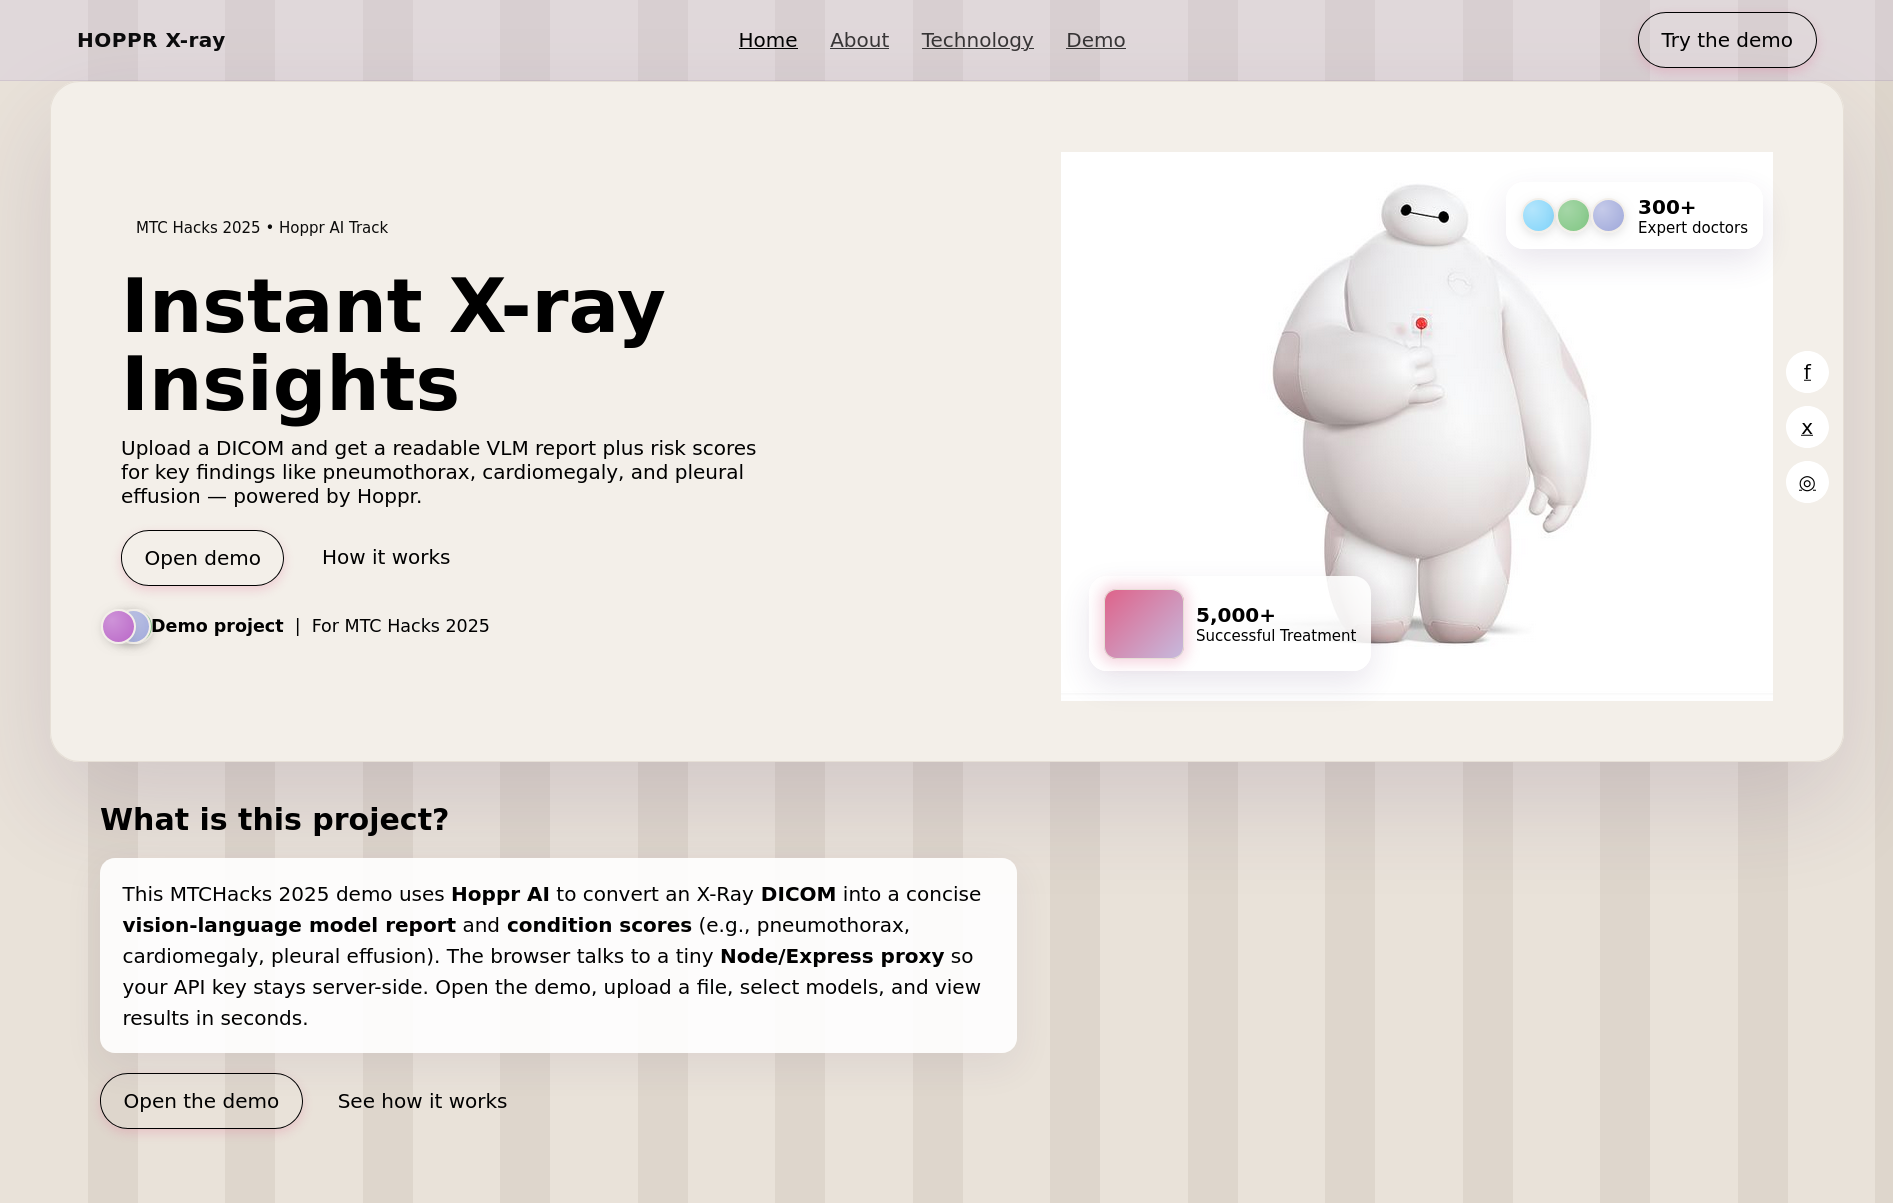
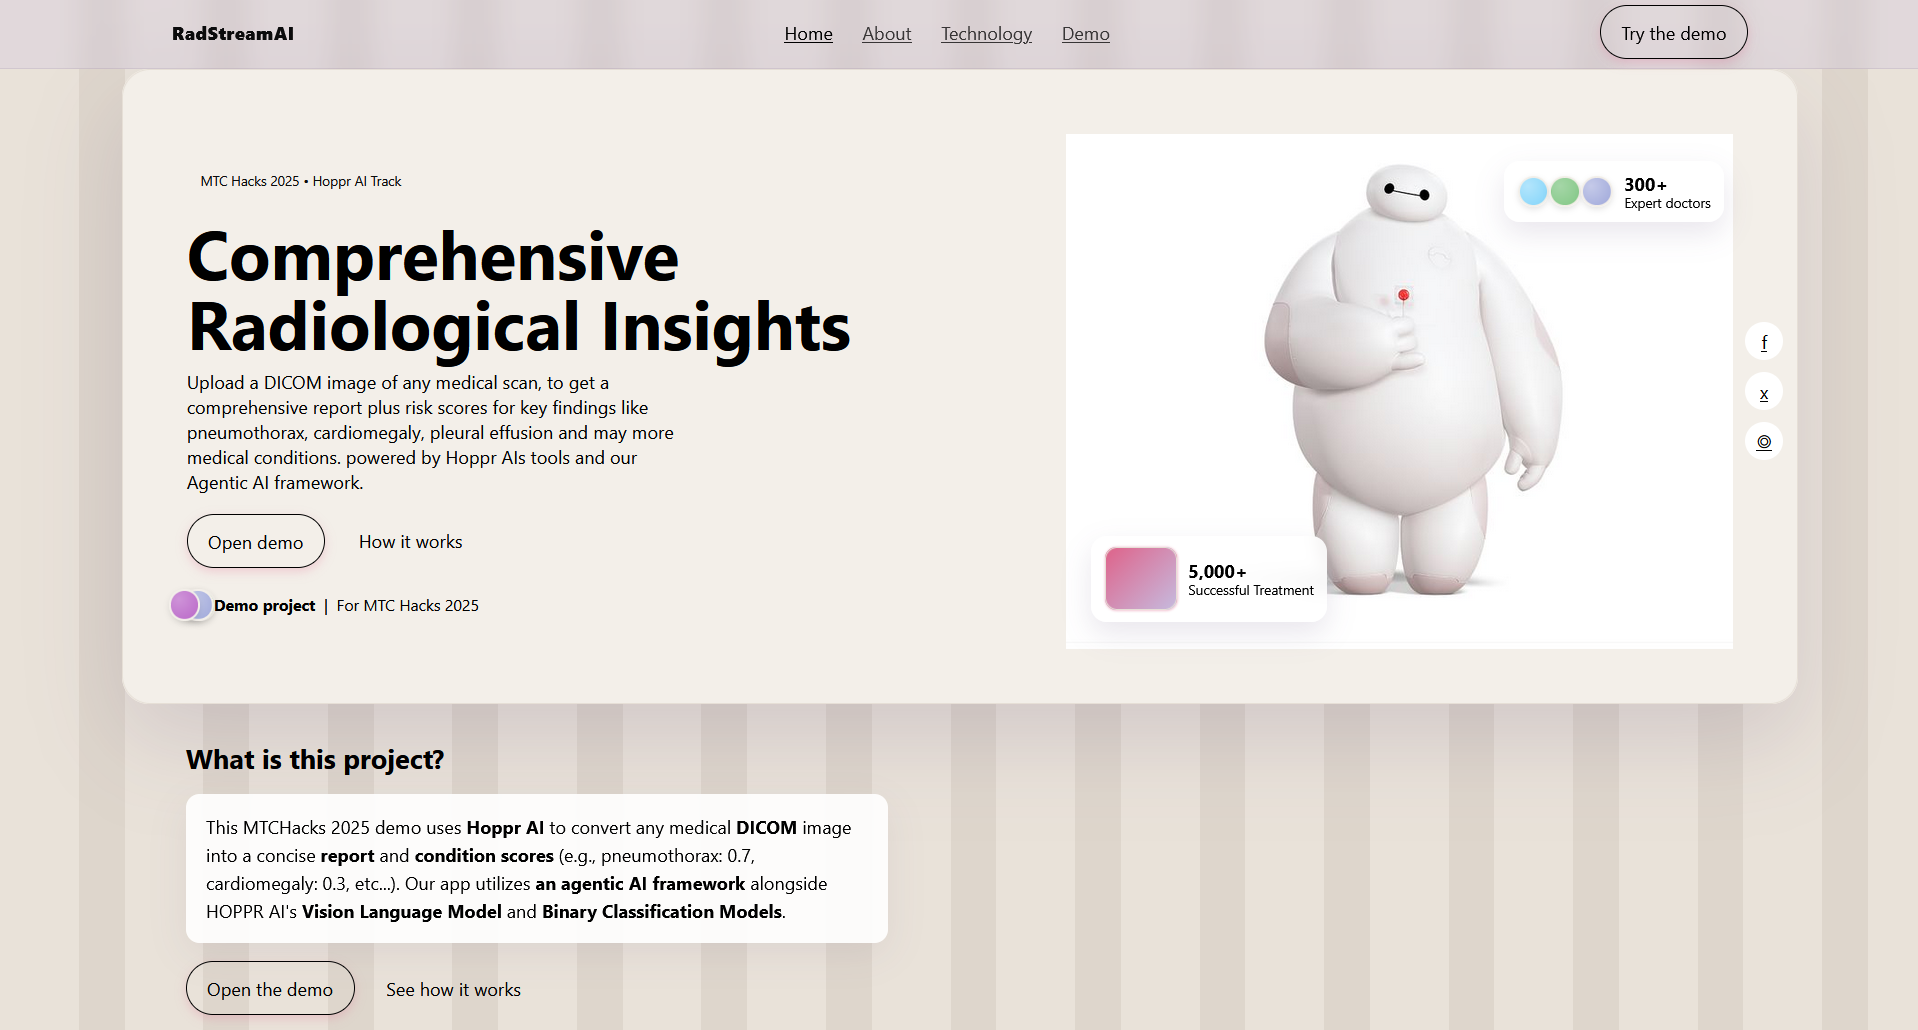
changed image on readme

Changed region(s): [[0.0312, 0.0, 0.9974, 0.9942], [0.4052, 0.0311, 0.5922, 0.0621]]

diff --git a/frontend/src/pages/RadiologistDemo.jsx b/frontend/src/pages/RadiologistDemo.jsx
@@ -40,6 +40,7 @@ export default function RadiologistDemo() {
   // NEW: Track what's currently happening
   const [currentPhase, setCurrentPhase] = useState("");
 
+  /*
   const scans = [
     {
       title: "Scan 1 – John Doe",
@@ -62,6 +63,7 @@ export default function RadiologistDemo() {
       ],
     },
   ];
+  */
 
   const handleFileChange = (e) => {
     setDicomFile(e.target.files[0]);
@@ -625,8 +627,8 @@ export default function RadiologistDemo() {
 
             {/* ✅ OK Button */}
             <button
-              onClick={handleConfirm}
-              disabled={isProcessing}
+              // onClick={handleConfirm}
+              // disabled={isProcessing}
               style={{
                 marginTop: "20px",
                 padding: "10px 20px",

diff --git a/frontend/src/pages/HealthcareLanding.jsx b/frontend/src/pages/HealthcareLanding.jsx
@@ -31,7 +31,7 @@ export default function HealthcareLanding() {
             {/* left copy */}
             <div className="hl-left">
               <div className="hl-kicker">MTC Hacks 2025 • Hoppr AI Track</div>
-              <h1 className="hl-title">Comprehensive Radilogical Insights</h1>
+              <h1 className="hl-title">Comprehensive Radiological Insights</h1>
               <p className="hl-sub">
                 Upload a DICOM image of any medical scan, to get a comprehensive report plus risk scores
                 for key findings like pneumothorax, cardiomegaly, pleural effusion and may more medical conditions.
